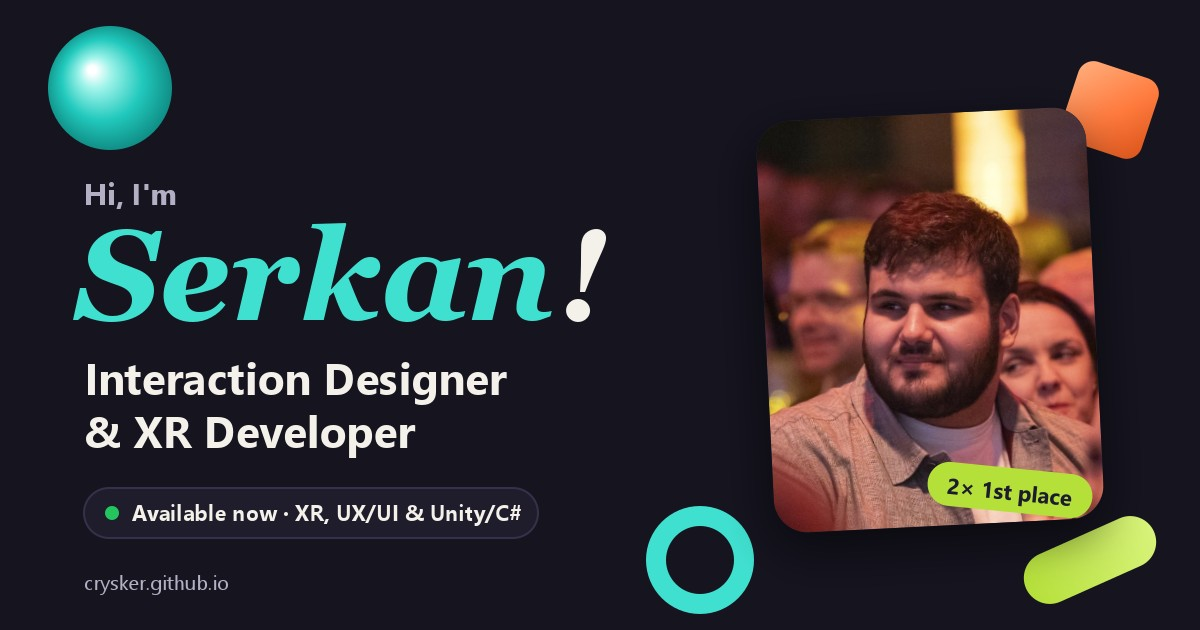
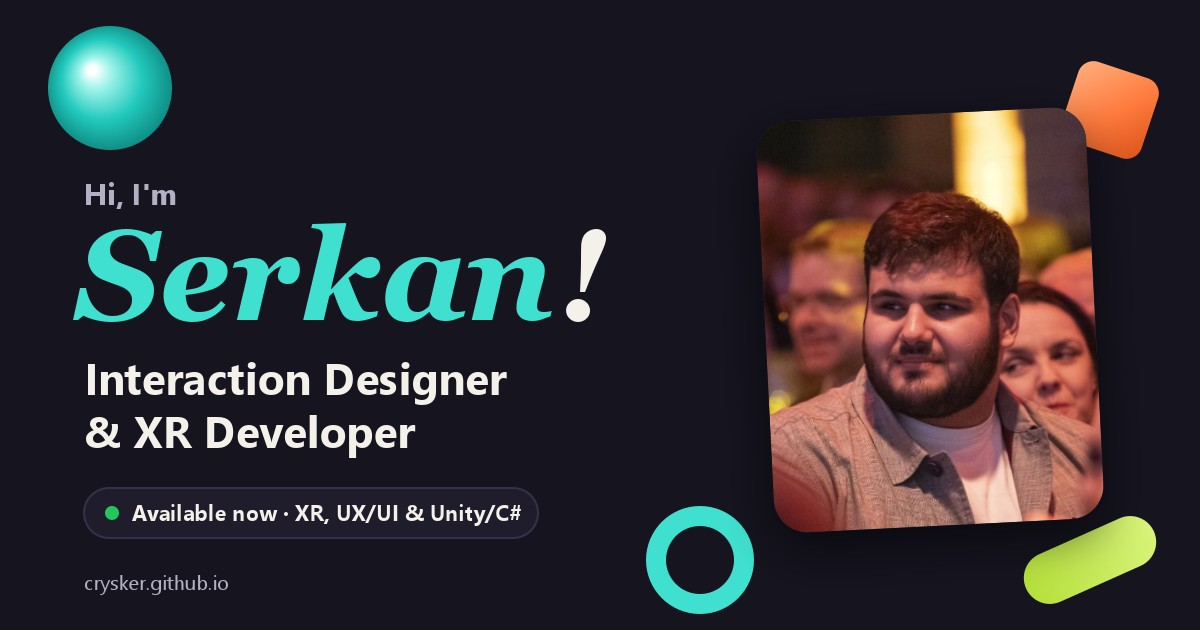
Remove the "2x 1st place" sticker from the portrait and preview image

Changed region(s): [[0.7708, 0.7238, 0.925, 0.8444]]

diff --git a/index.html b/index.html
@@ -10,18 +10,18 @@
   <meta property="og:title" content="Serkan Sönmez · Interaction Designer & XR Developer">
   <meta property="og:description" content="Interaction & UX/UI Designer and XR / Unity Developer from St. Pölten, Austria. Available now for XR, UX/UI and Unity/C# roles.">
   <!-- link preview (Discord, LinkedIn, WhatsApp…); bump ?v= after changing the image, previews are cached -->
-  <meta property="og:image" content="https://crysker.github.io/assets/og-image.jpg?v=1">
+  <meta property="og:image" content="https://crysker.github.io/assets/og-image.jpg?v=2">
   <meta property="og:image:width" content="1200">
   <meta property="og:image:height" content="630">
   <meta property="og:image:alt" content="Serkan Sönmez, Interaction Designer and XR Developer, available now">
   <meta name="twitter:card" content="summary_large_image">
-  <meta name="twitter:image" content="https://crysker.github.io/assets/og-image.jpg?v=1">
+  <meta name="twitter:image" content="https://crysker.github.io/assets/og-image.jpg?v=2">
   <!-- bump ?v= after changing the icon – browsers cache favicons very aggressively -->
   <link rel="icon" type="image/svg+xml" href="assets/favicon.svg?v=2">
   <link rel="preconnect" href="https://fonts.googleapis.com">
   <link rel="preconnect" href="https://fonts.gstatic.com" crossorigin>
   <link href="https://fonts.googleapis.com/css2?family=Fraunces:ital,opsz,wght@0,9..144,500;0,9..144,700;1,9..144,600;1,9..144,700&family=Plus+Jakarta+Sans:wght@400;500;600;700&display=swap" rel="stylesheet">
-  <link rel="stylesheet" href="styles.css?v=20">
+  <link rel="stylesheet" href="styles.css?v=21">
 </head>
 <body>
   <a class="skip" href="#main" data-i18n="skip">Skip to content</a>
@@ -62,7 +62,6 @@
         <div class="shape shape--ring" aria-hidden="true"></div>
         <div class="shape shape--pill" aria-hidden="true"></div>
         <span class="hero__photo"><img src="assets/img/portrait.jpg" alt="Portrait of Serkan Sönmez" width="260" height="325"></span>
-        <span class="sticker" data-i18n="hero.sticker">🏆 2× 1st place</span>
       </div>
       <p class="hero__lead" data-i18n="hero.lead">I design and build interactive experiences: on screens, in space, and for all the senses.</p>
       <div class="hero__cta">

diff --git a/styles.css b/styles.css
@@ -199,12 +199,6 @@ html[lang="de"] .lang [data-lang="de"] { background: var(--ink); color: var(--bg
   width: 100%; height: 100%; object-fit: cover;
   transform: scale(1.65); transform-origin: 62% 46%;
 }
-.sticker {
-  position: absolute; right: -28px; bottom: 22px;
-  padding: 8px 14px; border-radius: 999px;
-  background: var(--lime); color: #1d1b2e; font: 800 14px var(--sans);
-  transform: rotate(6deg); box-shadow: var(--shadow);
-}
 .hero__lead { max-width: 34ch; margin: 32px 0 24px; font-size: 19px; color: var(--ink-soft); }
 .hero__cta { display: flex; gap: 12px; flex-wrap: wrap; justify-content: center; }
 .captcha { margin-top: 56px; }
@@ -248,7 +242,6 @@ html[lang="de"] .lang [data-lang="de"] { background: var(--ink); color: var(--bg
   .shape--sphere { width: 56px; height: 56px; left: 3%; top: 10px; }
   .shape--cube { width: 46px; height: 46px; right: 5%; top: 18px; }
   .shape--tri { display: none; }
-  .sticker { right: -12px; }
   /* Phones: get the buttons onto the first screen – photo moves below them */
   .hero { padding-top: 40px; }
   .hero__status { margin-bottom: 4px; }

diff --git a/main.js b/main.js
@@ -177,7 +177,6 @@ const I18N = {
     "hero.also": "also",
     "hero.status": "Available now · open to XR, UX/UI and Unity/C# roles",
     cv: "Download CV", "nav.cv": "CV ↓",
-    "hero.sticker": "🏆 2× 1st place",
     "hero.lead": "I design and build interactive experiences: on screens, in space, and for all the senses.",
     "hero.cta1": "See my work", "hero.cta2": "Let's talk",
     "hero.scroll": "scroll down and get to know me",
@@ -455,7 +454,6 @@ const I18N = {
     "hero.also": "auch",
     "hero.status": "Ab sofort verfügbar · offen für XR-, UX/UI- und Unity/C#-Stellen",
     cv: "Lebenslauf herunterladen", "nav.cv": "CV ↓",
-    "hero.sticker": "🏆 2× 1. Platz",
     "hero.lead": "Ich gestalte und entwickle interaktive Erlebnisse: auf Bildschirmen, im Raum und für alle Sinne.",
     "hero.cta1": "Meine Arbeiten", "hero.cta2": "Lass uns reden",
     "hero.scroll": "scroll runter und lern mich kennen",
